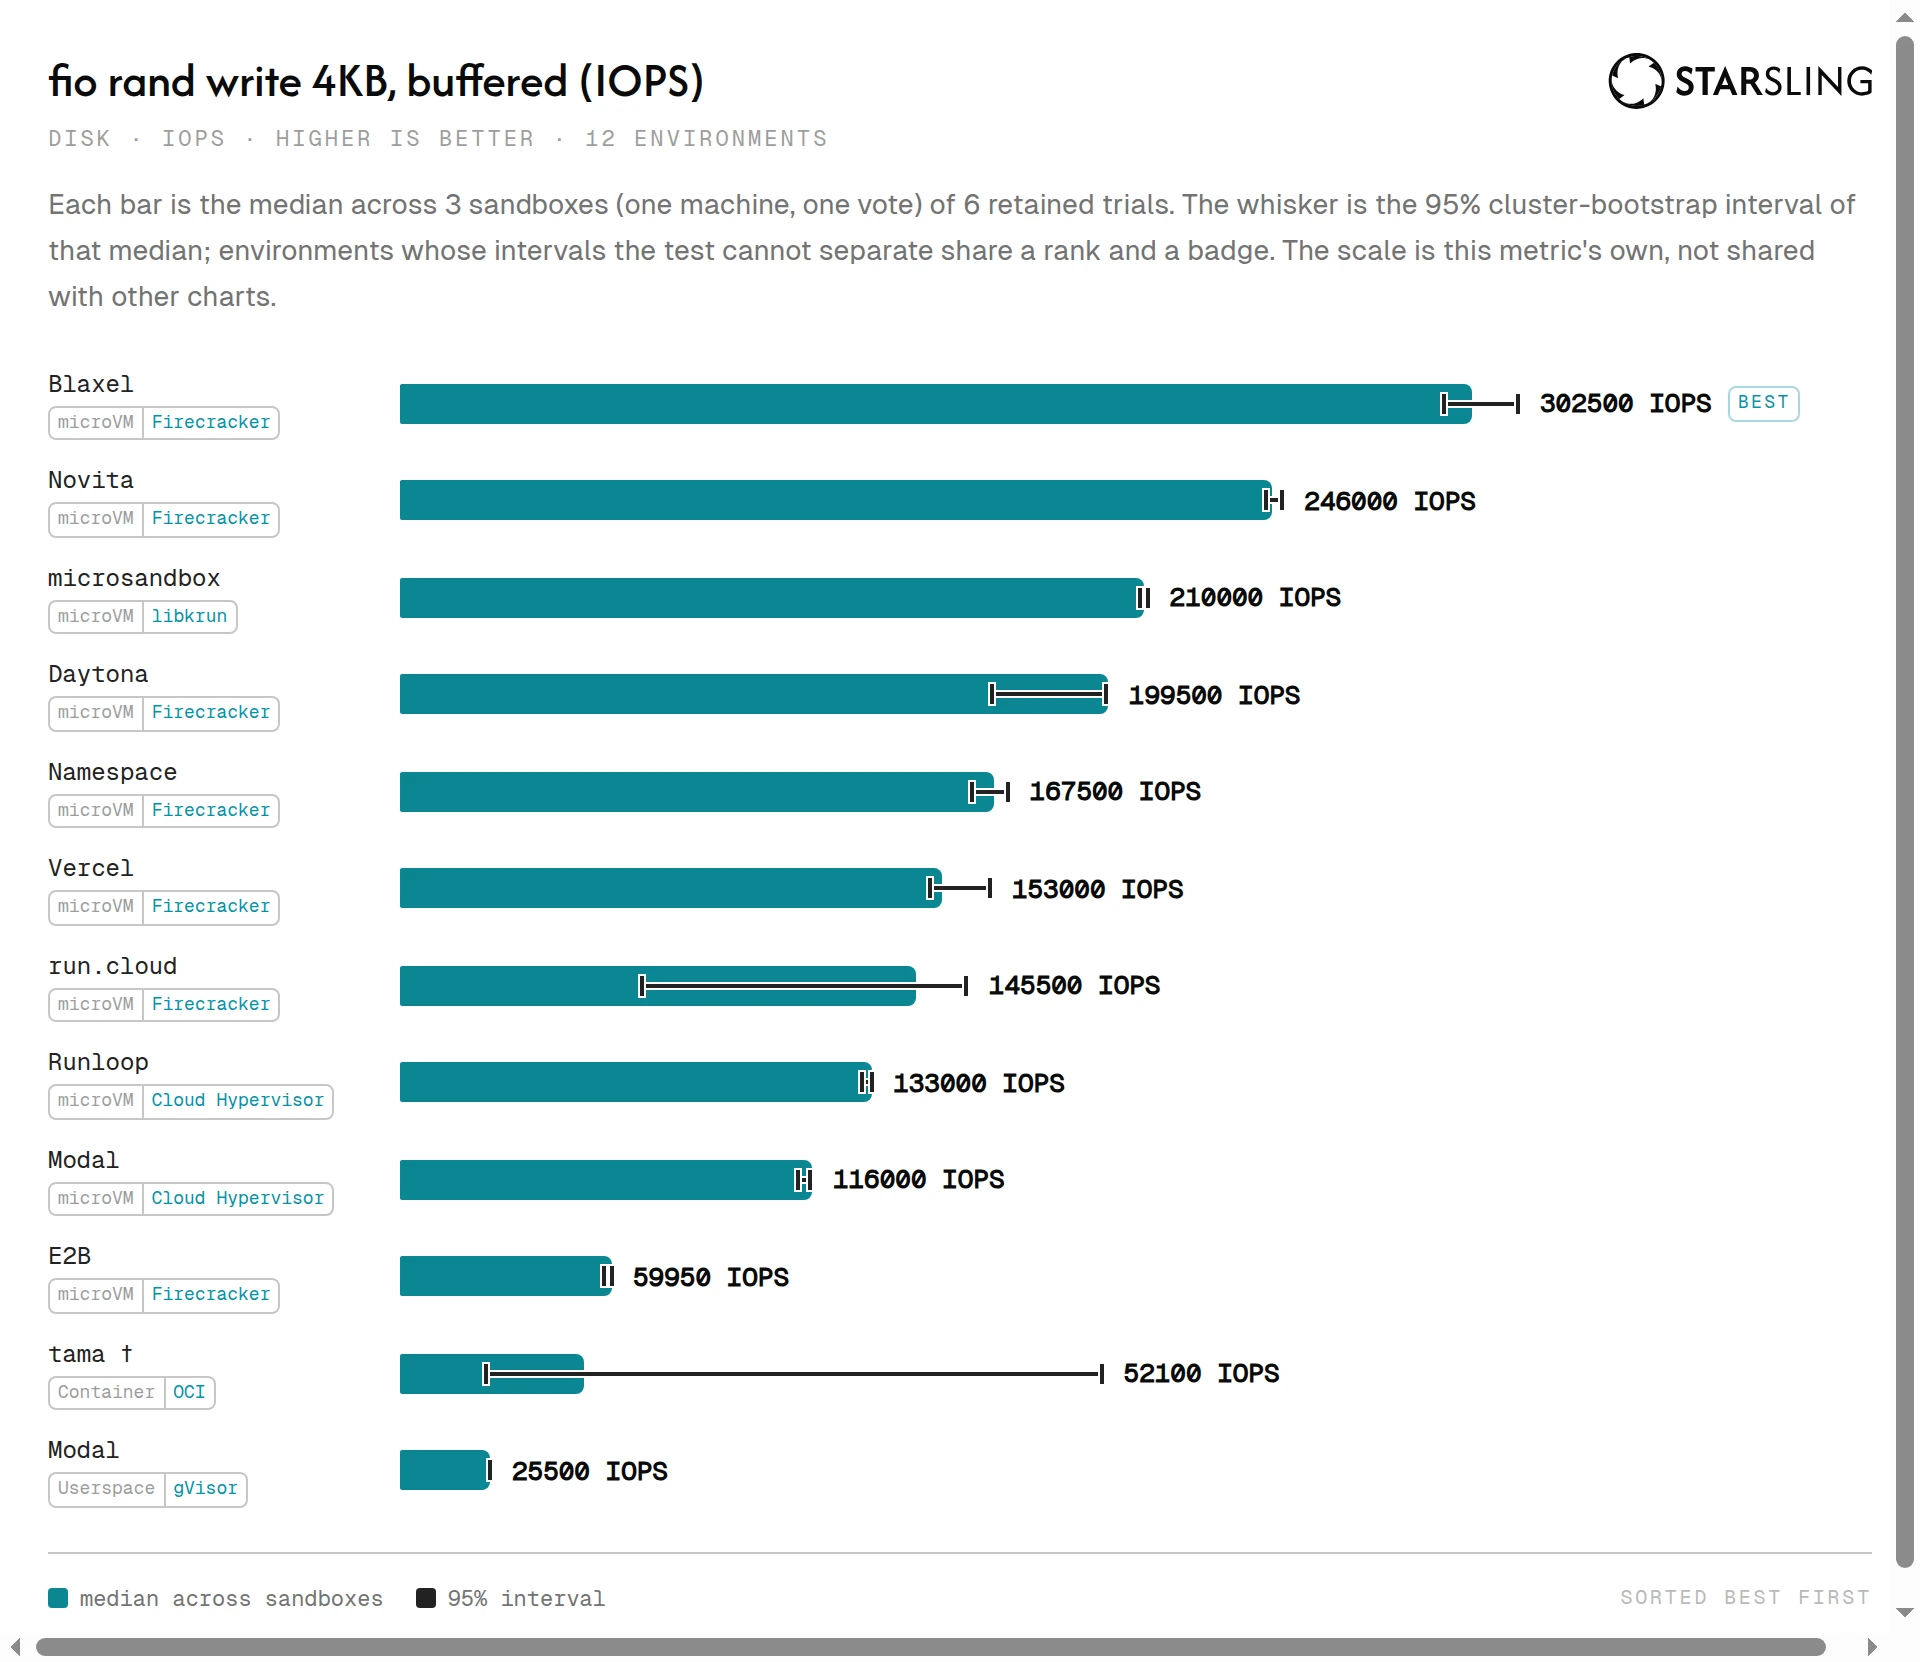
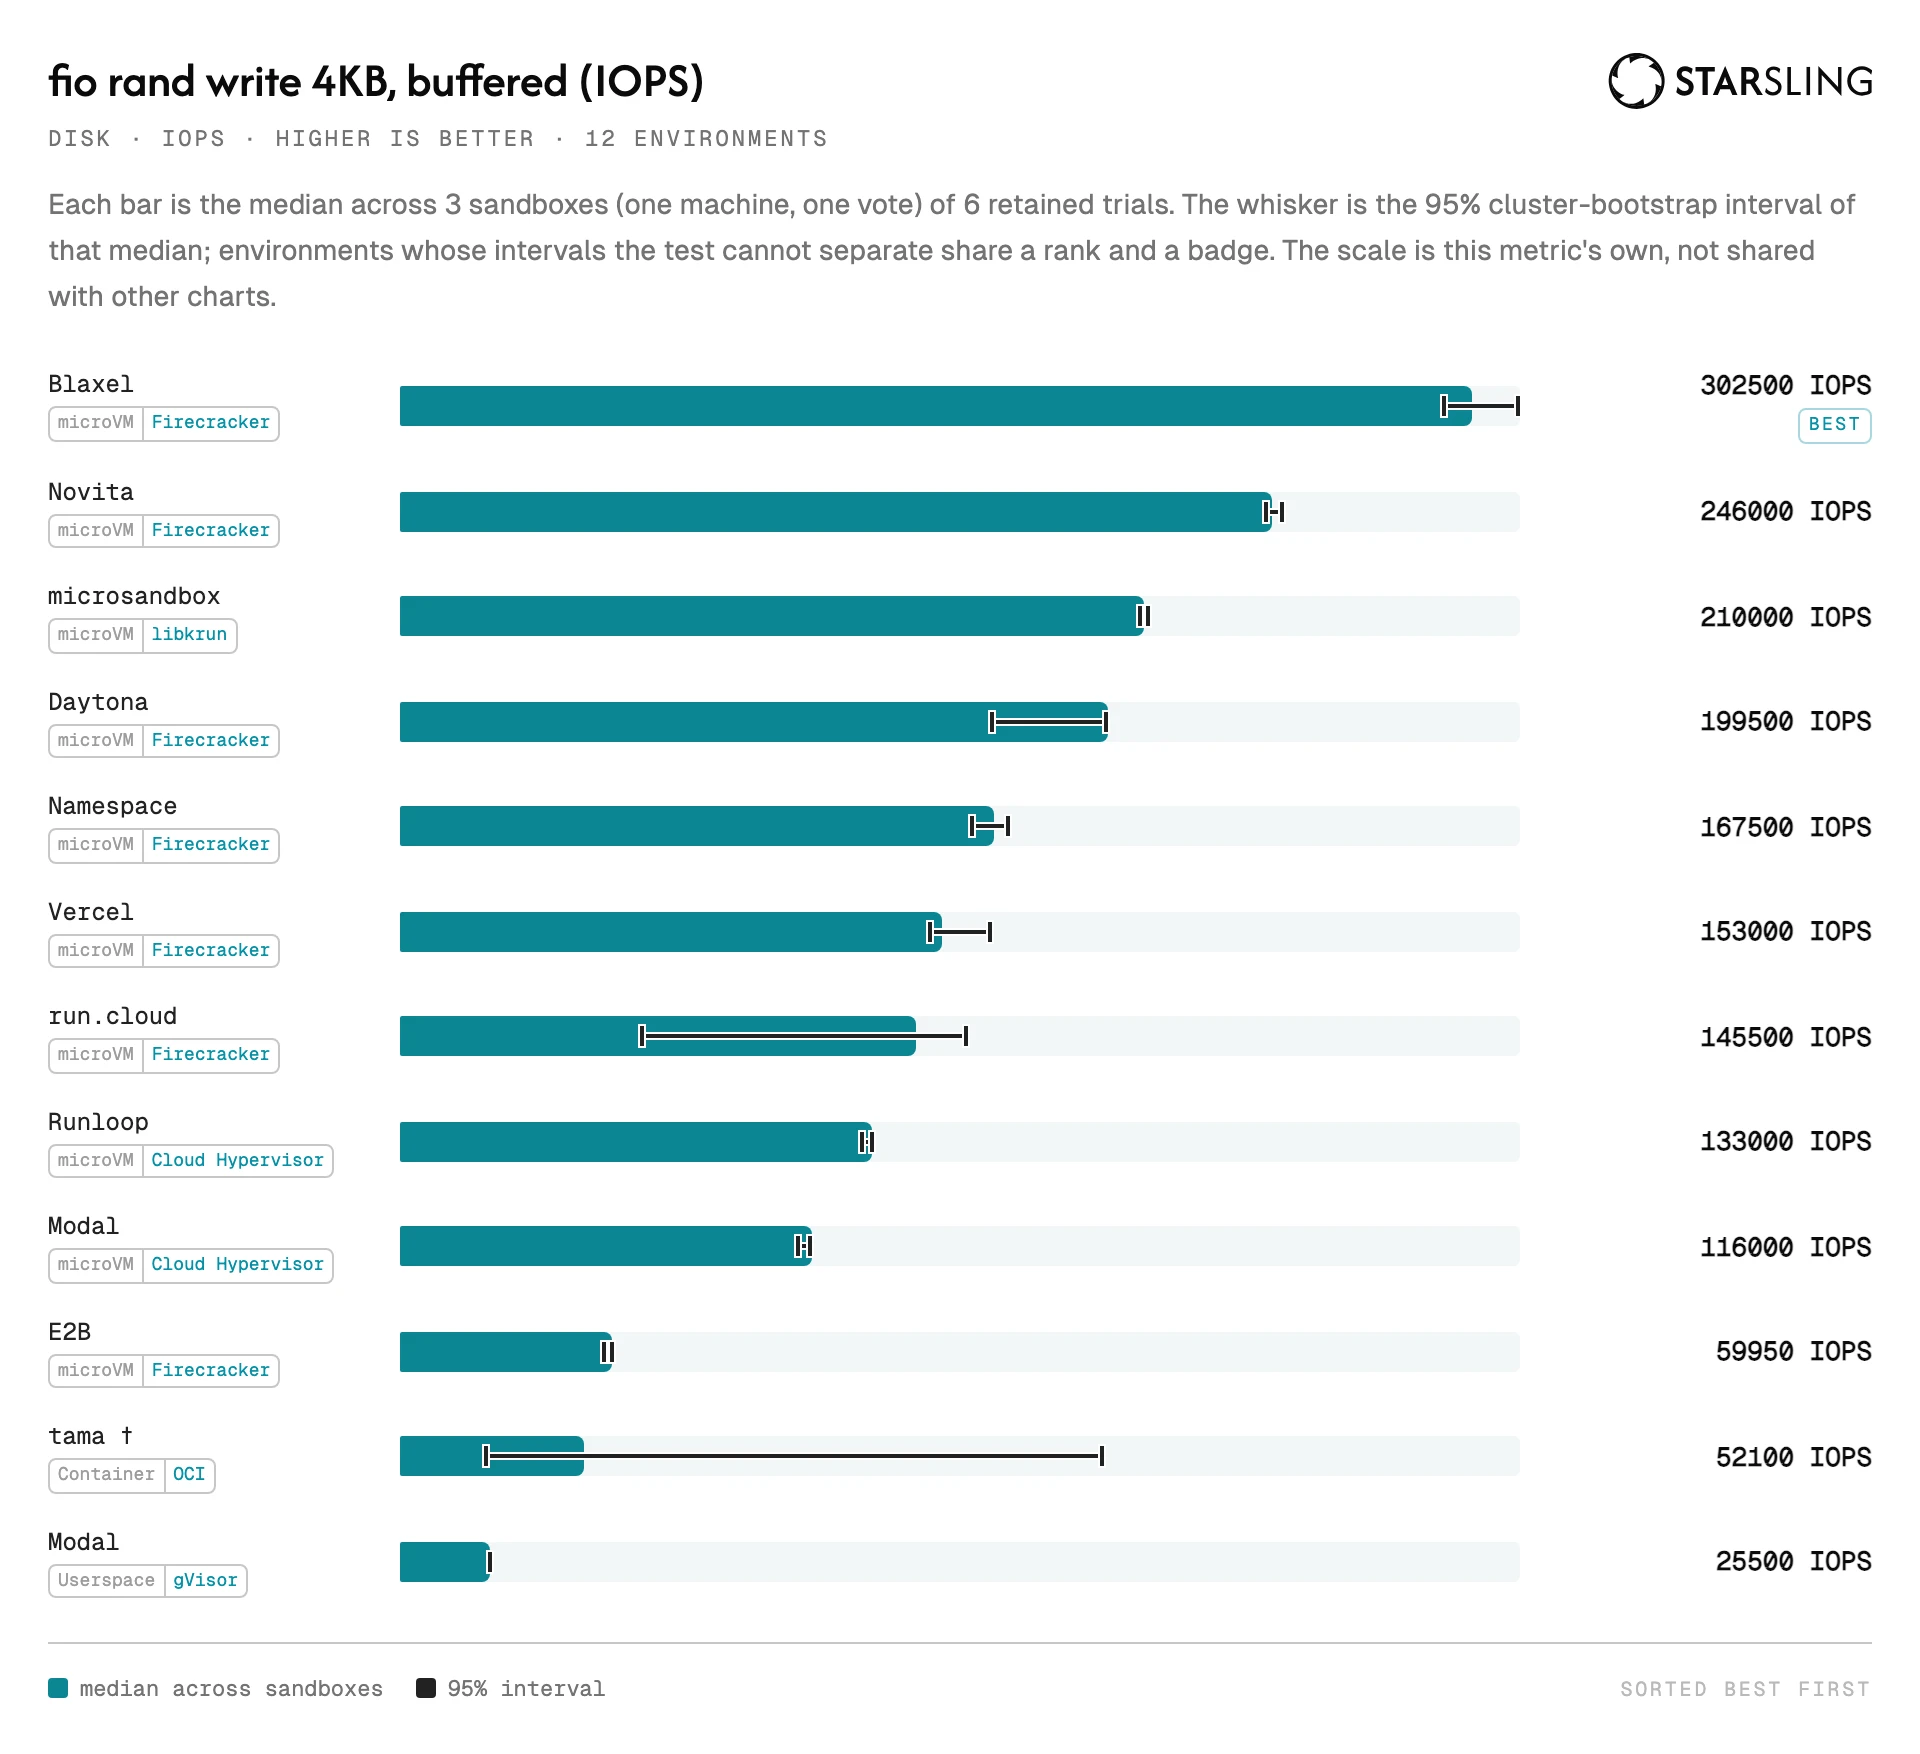
fix(figures): align metric-chart values in their own column over a fixed track (#478)
**HEADLINE CHART POLISH — re-pick the synthetic headline metrics, polish the metric chart, and let the board read several datasets at once**

Shipped as a 5-PR stack (merge bottom-up, each branch independently green — typecheck + full test suite, verified per branch):

1. #477 — mechanism: release the account intent a vendor-rejected create left open
2. #478 — figures: align metric-chart values in their own column over a fixed track (+ regenerated `docs/figures/*.webp`)
3. #479 — schema + renderer: headline both WAN directions, re-pick the disk and system leads (+ regenerated `LEADERBOARD.md`)
4. #480 — results: combine several published Runs into one read-only leaderboard view
5. #481 — wiring: drive the combined view and the impact report from the CLI

↑ **This PR is #2 (2/5)**, based on #477.

---

The metric chart sized each bar's lane to whichever reached further, the bar or its
whisker, so the value sat immediately after that reach. Every row then started its value at
a different x, and a row whose interval ran past the bar pushed its number further right
than a row whose interval did not — the column a reader scans down was ragged, and the
widest interval could still crowd the number it belonged to.

Give the lane a fixed 560 px track with its own tinted ground, and put the value in its own
flex column that stacks the `best` badge beneath the number rather than beside it. Values
[…]

diff --git a/packages/figures/src/chart/template.ts b/packages/figures/src/chart/template.ts
@@ -38,7 +38,7 @@ export const BAR_HEIGHT = 20;
 export const SEGMENT_GAP = 2;
 export const TOTAL_GAP = 10;
 /** `space-y-3` between bar rows. */
-export const ROW_GAP = 12;
+export const ROW_GAP = 16;
 /**
  * The title's own metrics, at `500 24px Afacad`, READ OFF THE PINNED FACE rather than assumed —
  * canvas `TextMetrics` in the rendered document, which is the only thing that knows what the
@@ -156,7 +156,7 @@ body { margin: 0; background: ${pageColors.bg}; }
 header { display: flex; align-items: flex-start; gap: 24px; margin: 0 0 4px; }
 h1 { margin: 0; font: 500 24px/32px ${HEADING}; color: ${pageColors.fg}; }
 .wordmark { flex: 0 0 auto; margin: ${px(WORDMARK_TOP)} 0 0 auto; width: ${px(WORDMARK_HEIGHT * WORDMARK_ASPECT)}; height: ${px(WORDMARK_HEIGHT)}; color: ${pageColors.fg}; }
-.summary { margin: 0 0 14px; font: 400 11px/16.5px ${MONO}; letter-spacing: 0.14em; text-transform: uppercase; color: ${pageColors.muted70}; }
+.summary { margin: 0 0 14px; font: 400 11px/16.5px ${MONO}; letter-spacing: 0.14em; text-transform: uppercase; color: ${pageColors.muted}; }
 .note { margin: 0 0 24px; font: 400 14px/22.75px ${SANS}; color: ${pageColors.muted}; }
 .note code { font: 400 13px ${MONO}; }
 /* The disk aside wraps as ONE unit. It is a parenthetical in a different face at a different
@@ -164,7 +164,7 @@ h1 { margin: 0; font: 500 24px/32px ${HEADING}; color: ${pageColors.fg}; }
    fragments rather than one aside — the full-width note made that break reachable. It is ~145 px
    at its longest, so refusing to break it can never overflow a 912 px line. */
 .note .disk { white-space: nowrap; font: 400 11px ${MONO}; color: ${pageColors.muted40}; }
-.legend { display: flex; align-items: center; gap: ${COLUMN_GAP}px; margin: 22px 0 0; padding: 14px 0 0; border-top: 1px solid ${pageColors.muted40}; list-style: none; font: 400 11px/16.5px ${MONO}; color: ${pageColors.muted}; }
+.legend { display: flex; align-items: center; gap: ${COLUMN_GAP}px; margin: 22px 0 0; padding: 14px 0 0; border-top: 1px solid ${pageColors.muted40}; flex-wrap: wrap; list-style: none; font: 400 11px/16.5px ${MONO}; color: ${pageColors.muted}; }
 .legend li { display: flex; align-items: center; gap: 6px; }
 .swatch { width: 10px; height: 10px; border-radius: 2px; }
 .legend-note { margin-left: auto; font: 400 10px/15px ${MONO}; letter-spacing: 0.14em; text-transform: uppercase; color: ${pageColors.muted50}; }
@@ -181,7 +181,7 @@ h1 { margin: 0; font: 500 24px/32px ${HEADING}; color: ${pageColors.fg}; }
 .badge { font: 400 9px/13.5px ${MONO}; letter-spacing: 0.14em; text-transform: uppercase; color: ${pageColors.teal}; border: 1px solid ${pageColors.tealBorder}; border-radius: 4px; padding: 1px 4px; white-space: nowrap; }
 .incomplete { align-items: flex-start; }
 .incomplete .provider { color: ${pageColors.muted50}; }
-.gap { font: 400 11px/16.5px ${MONO}; color: ${pageColors.muted50}; }
+.gap { min-width: 0; overflow-wrap: anywhere; font: 400 11px/16.5px ${MONO}; color: ${pageColors.muted}; }
 `;
 
 /** A provider cell: the concise title, and the isolation chip beneath it when metadata was

diff --git a/packages/figures/src/chart/metric-html.ts b/packages/figures/src/chart/metric-html.ts
@@ -24,18 +24,16 @@ import {
 
 export { FIGURE_WIDTH } from "./template.ts";
 
-/**
- * The full-scale bar's length. Shorter than the pipeline chart's 648 px because the value that
- * follows the longest bar carries a unit (`178100 MB/s`, `0.3312 USD/hr`) and may carry the
- * badge too; 176 px remain for both, which the widest string the catalog produces fits inside.
- */
+/** Fixed track leaves a separate value column for units and a badge beneath the number. */
 const TRACK_WIDTH = 560;
 /** The whisker: a hairline with short end caps, ringed in the surface colour so it stays
  *  legible where it crosses from the bar onto the page. */
 const WHISKER_HEIGHT = 2;
 const CAP_HEIGHT = 10;
 
-const STYLE = `.lane { position: relative; height: ${BAR_HEIGHT}px; }
+const STYLE = `.bar { flex: 1; min-width: 0; }
+.value { flex: 1; min-width: 0; flex-direction: column; align-items: flex-end; gap: 3px; }
+.lane { position: relative; height: ${BAR_HEIGHT}px; flex: 0 0 ${TRACK_WIDTH}px; background: #f2f7f7; border-radius: 3px; }
 .fill { position: absolute; left: 0; top: 0; height: ${BAR_HEIGHT}px; border-radius: 1px 4px 4px 1px; }
 .whisker { position: absolute; top: ${px((BAR_HEIGHT - WHISKER_HEIGHT) / 2)}; height: ${WHISKER_HEIGHT}px; box-shadow: 0 0 0 1px #ffffff; }
 .cap { position: absolute; top: ${px((BAR_HEIGHT - CAP_HEIGHT) / 2)}; width: ${WHISKER_HEIGHT}px; height: ${CAP_HEIGHT}px; box-shadow: 0 0 0 1px #ffffff; }
@@ -46,9 +44,6 @@ export function metricChartHtml(model: MetricChartModel): string {
 	const whiskerColor = hexColor(model.legend[1]?.color ?? "#222222");
 	const barRows = model.bars.map((bar) => {
 		const barWidth = bar.scaleFraction * TRACK_WIDTH;
-		// The lane spans the bar OR the whisker, whichever reaches further, so the value never sits
-		// on top of an interval that runs past the bar.
-		const reach = Math.max(barWidth, (bar.interval?.hi ?? 0) * TRACK_WIDTH);
 		const whisker = bar.interval
 			? `<span class="whisker" style="left: ${px(bar.interval.lo * TRACK_WIDTH)}; width: ${px((bar.interval.hi - bar.interval.lo) * TRACK_WIDTH)}; background: ${whiskerColor};"></span>` +
 				`<span class="cap" style="left: ${px(bar.interval.lo * TRACK_WIDTH)}; background: ${whiskerColor};"></span>` +
@@ -57,7 +52,7 @@ export function metricChartHtml(model: MetricChartModel): string {
 		const badge = bar.best ? `<span class="badge">best</span>` : "";
 		return (
 			`<div class="row">${providerMarkup(bar.label, bar.isolation)}` +
-			`<div class="bar"><div class="lane" style="width: ${px(reach)};">` +
+			`<div class="bar"><div class="lane" style="width: ${px(TRACK_WIDTH)};">` +
 			`<span class="fill" style="width: ${px(barWidth)}; background: ${barColor};"></span>${whisker}</div>` +
 			`<span class="value"><span class="total">${escapeHtml(bar.value)}</span>${badge}</span></div></div>`
 		);

diff --git a/packages/figures/src/chart/metric-html.test.ts b/packages/figures/src/chart/metric-html.test.ts
@@ -45,7 +45,7 @@ describe("metricChartHtml", () => {
 		expect(html.match(/class="whisker"/g)?.length).toBe(2);
 	});
 
-	it("sizes the lane to the whisker when it reaches past the bar, so the value never sits on it", () => {
+	it("uses a fixed lane so values align and never overlap intervals", () => {
 		// Beta: bar 190/230 → 462.61 px, interval to the edge → 560 px; the lane is the further one.
 		expect(html).toContain(
 			`<div class="lane" style="width: 560.00px;"><span class="fill" style="width: 462.61px;`,

diff --git a/packages/figures/README.md b/packages/figures/README.md
@@ -28,6 +28,8 @@ Two kinds of chart, in one style — the same frame, faces, geometry and provide
   the board's shared-rank badge on every environment it could not separate. Each scales to its
   own largest value. The dimension's
   headline chart sits above its section's collapse; the rest sit beside their tables inside it.
+  Synthetic values align in a separate column beyond the fixed tracks, with best-rank badges
+  beneath the values so intervals never collide with labels.
 
 ## Seams
 
